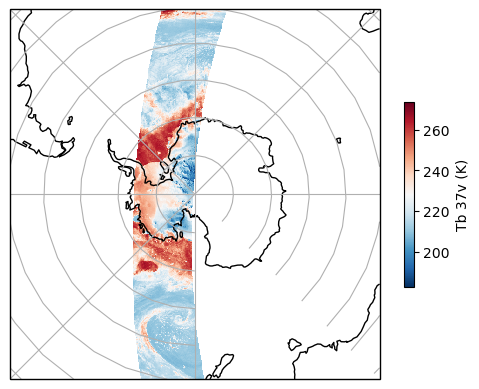
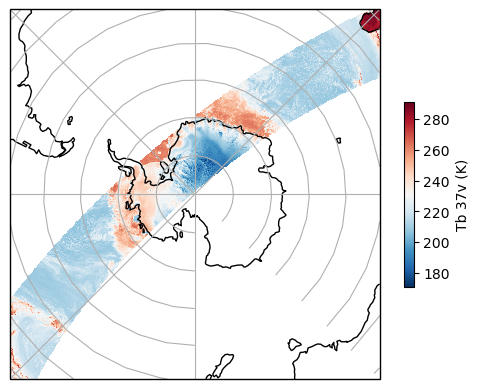
Update the pc_worl example and use the same amsr2 data for all examples

diff --git a/docs/source/plot.rst b/docs/source/plot.rst
@@ -24,7 +24,7 @@ supported by Satpy_. All you need are a set of geo-referenced values
 First we read in the data with Satpy_:
 
  >>> from satpy.scene import Scene
- >>> SCENE_FILES = glob("/home/a000680/Satsa/amsr2/level1b/GW1AM2_20191125????_186*h5")
+ >>> SCENE_FILES = glob("/home/a000680/Satsa/amsr2/level1b/GW1AM2_20191122????_156*h5")
  >>> scn = Scene(reader='amsr2_l1b', filenames=SCENE_FILES)
  >>> scn.load(["btemp_36.5v"])
  >>> lons, lats = scn["btemp_36.5v"].area.get_lonlats()
@@ -39,7 +39,7 @@ First we read in the data with Satpy_:
  >>> lons = np.zeros(1000)
  >>> lats = np.arange(-80, -90, -0.01)
  >>> tb37v = np.arange(1000)
- >>> area_def = load_area('areas.cfg', 'ease_sh')
+ >>> area_def = load_area('areas.yaml', 'ease_sh')
  >>> swath_def = SwathDefinition(lons, lats)
  >>> result = resample_nearest(swath_def, tb37v, area_def,
  ...                           radius_of_influence=20000, fill_value=None)
@@ -47,25 +47,32 @@ First we read in the data with Satpy_:
 
 Assuming **lons**, **lats** and **tb37v** are initialized with real data (as in
 the above Satpy_ example) the result might look something like this:
+
   .. image:: _static/images/tb37v_quick.png
   
 The data passed to the functions is a 2D array matching the AreaDefinition.
 
 The Plate Carree projection
 +++++++++++++++++++++++++++
-The Plate Carree projection (regular lon/lat grid) is named **eqc** in Proj.4 and **cyl** in Basemap. pyresample uses the Proj.4 name.
-Assuming the file **areas.cfg** has the following area definition:
+The Plate Carree projection (regular lon/lat grid) is named **eqc** in
+Proj.4. Pyresample uses the Proj.4 nameing.
+
+Assuming the file **areas.yaml** has the following area definition:
 
 .. code-block:: bash
 
- REGION: pc_world {
-    NAME:    Plate Carree world map
-    PCS_ID:  pc_world
-    PCS_DEF: proj=eqc
-    XSIZE: 640
-    YSIZE: 480
-    AREA_EXTENT:  (-20037508.34, -10018754.17, 20037508.34, 10018754.17)
- };
+  pc_world:
+    description: Plate Carree world map
+    projection:
+      proj: eqc
+      ellps: WGS84
+    shape:
+      height: 480
+      width: 640
+    area_extent:
+      lower_left_xy: [-20037508.34, -10018754.17]
+      upper_right_xy: [20037508.34, 10018754.17]
+
 
 **Example usage:**
 
@@ -75,7 +82,7 @@ Assuming the file **areas.cfg** has the following area definition:
  >>> lons = np.zeros(1000)
  >>> lats = np.arange(-80, -90, -0.01)
  >>> tb37v = np.arange(1000)
- >>> area_def = load_area('areas.cfg', 'pc_world')
+ >>> area_def = load_area('areas.yaml', 'pc_world')
  >>> swath_def = SwathDefinition(lons, lats)
  >>> result = resample_nearest(swath_def, tb37v, area_def, radius_of_influence=20000, fill_value=None)
  >>> save_quicklook('tb37v_pc.png', area_def, result, num_meridians=0, num_parallels=0, label='Tb 37v (K)')
